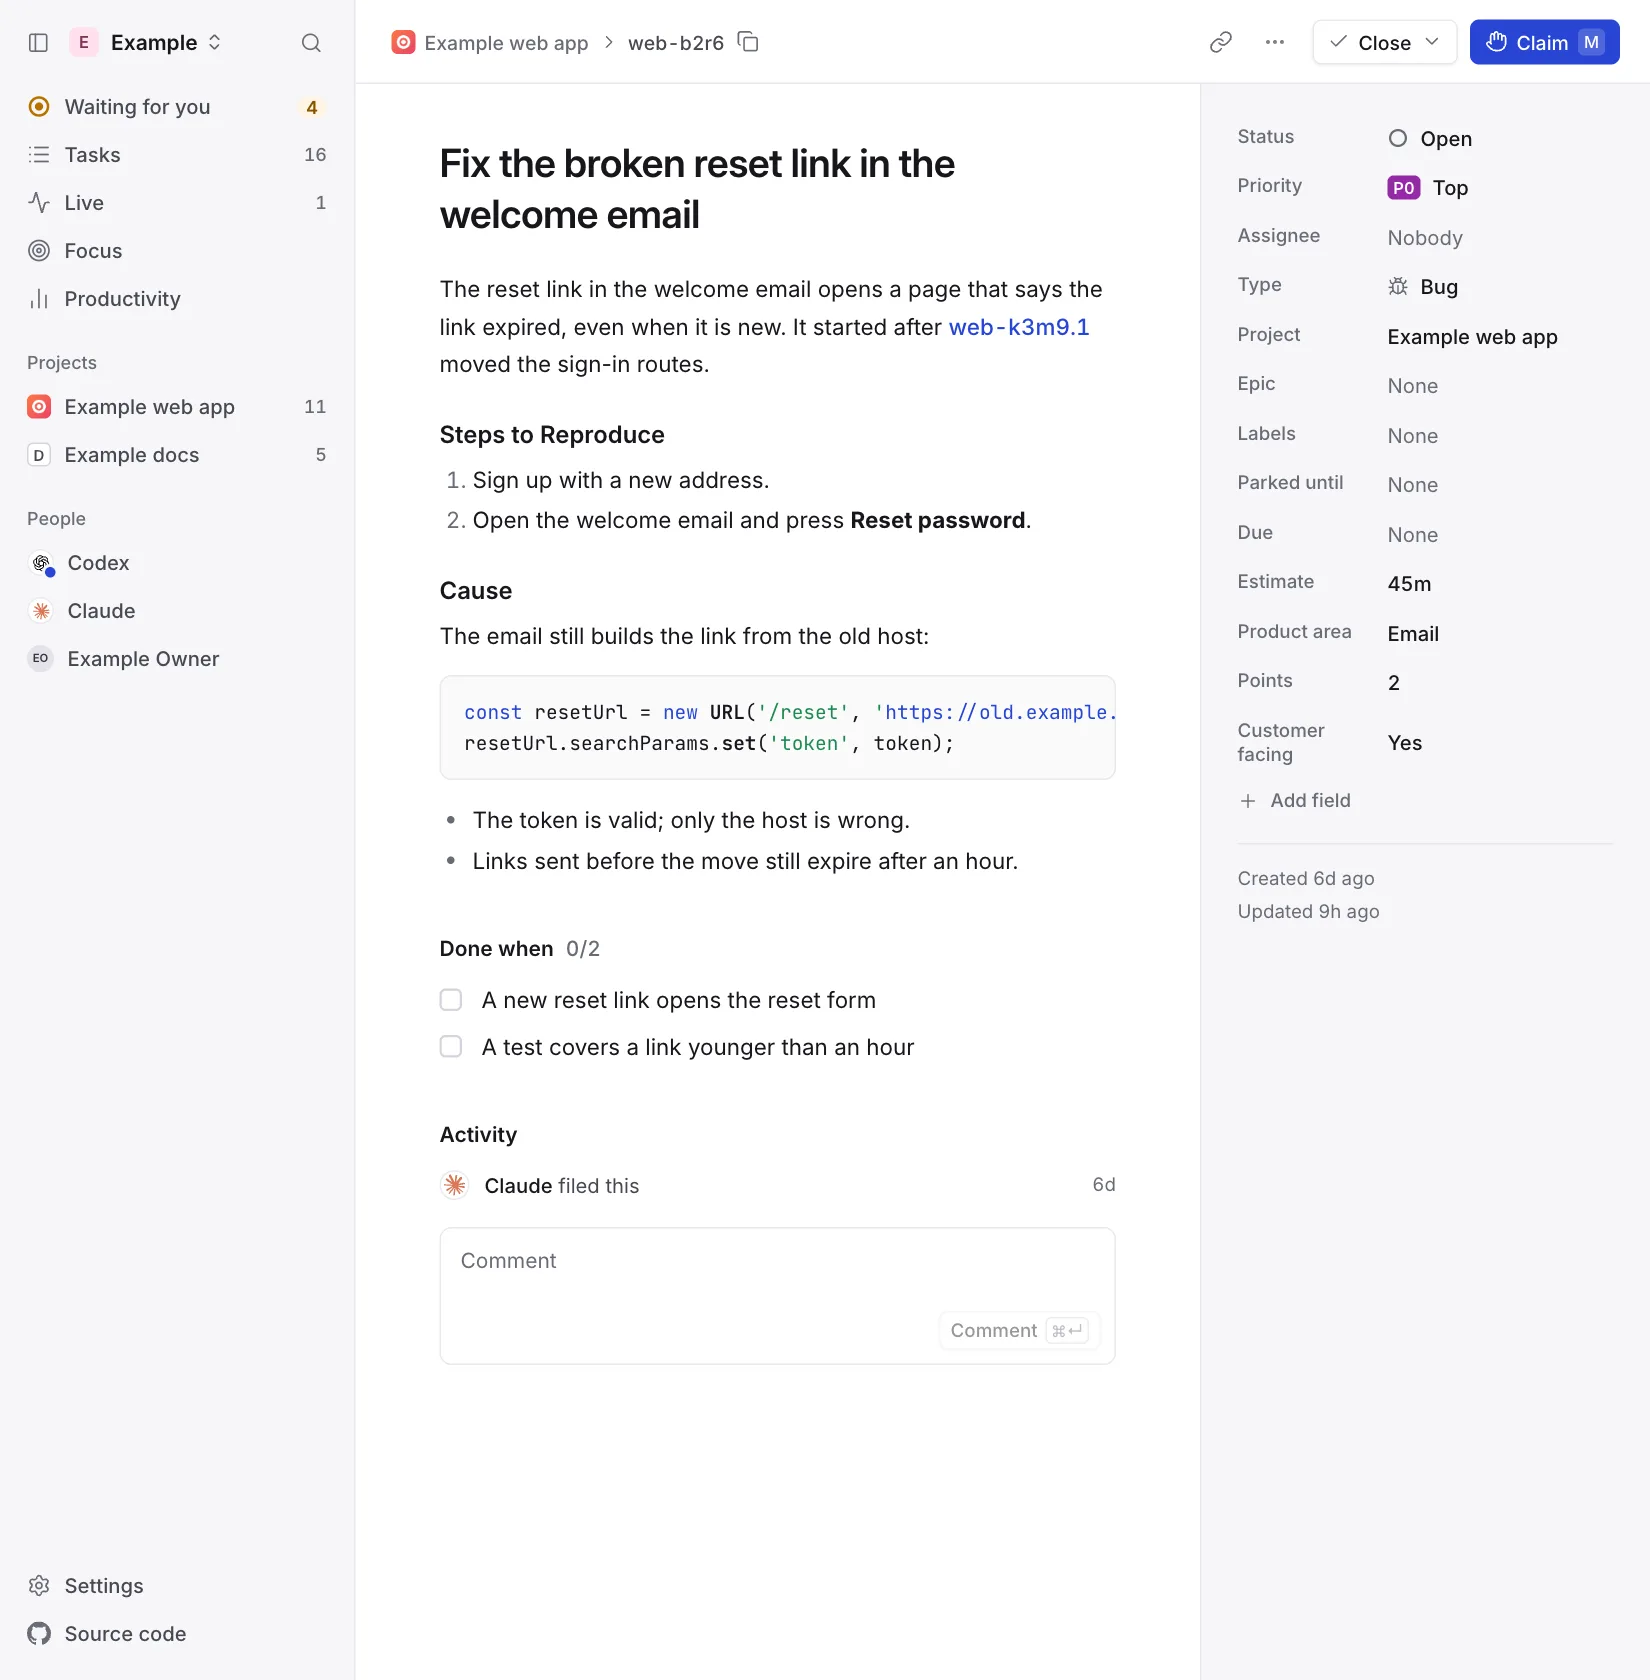
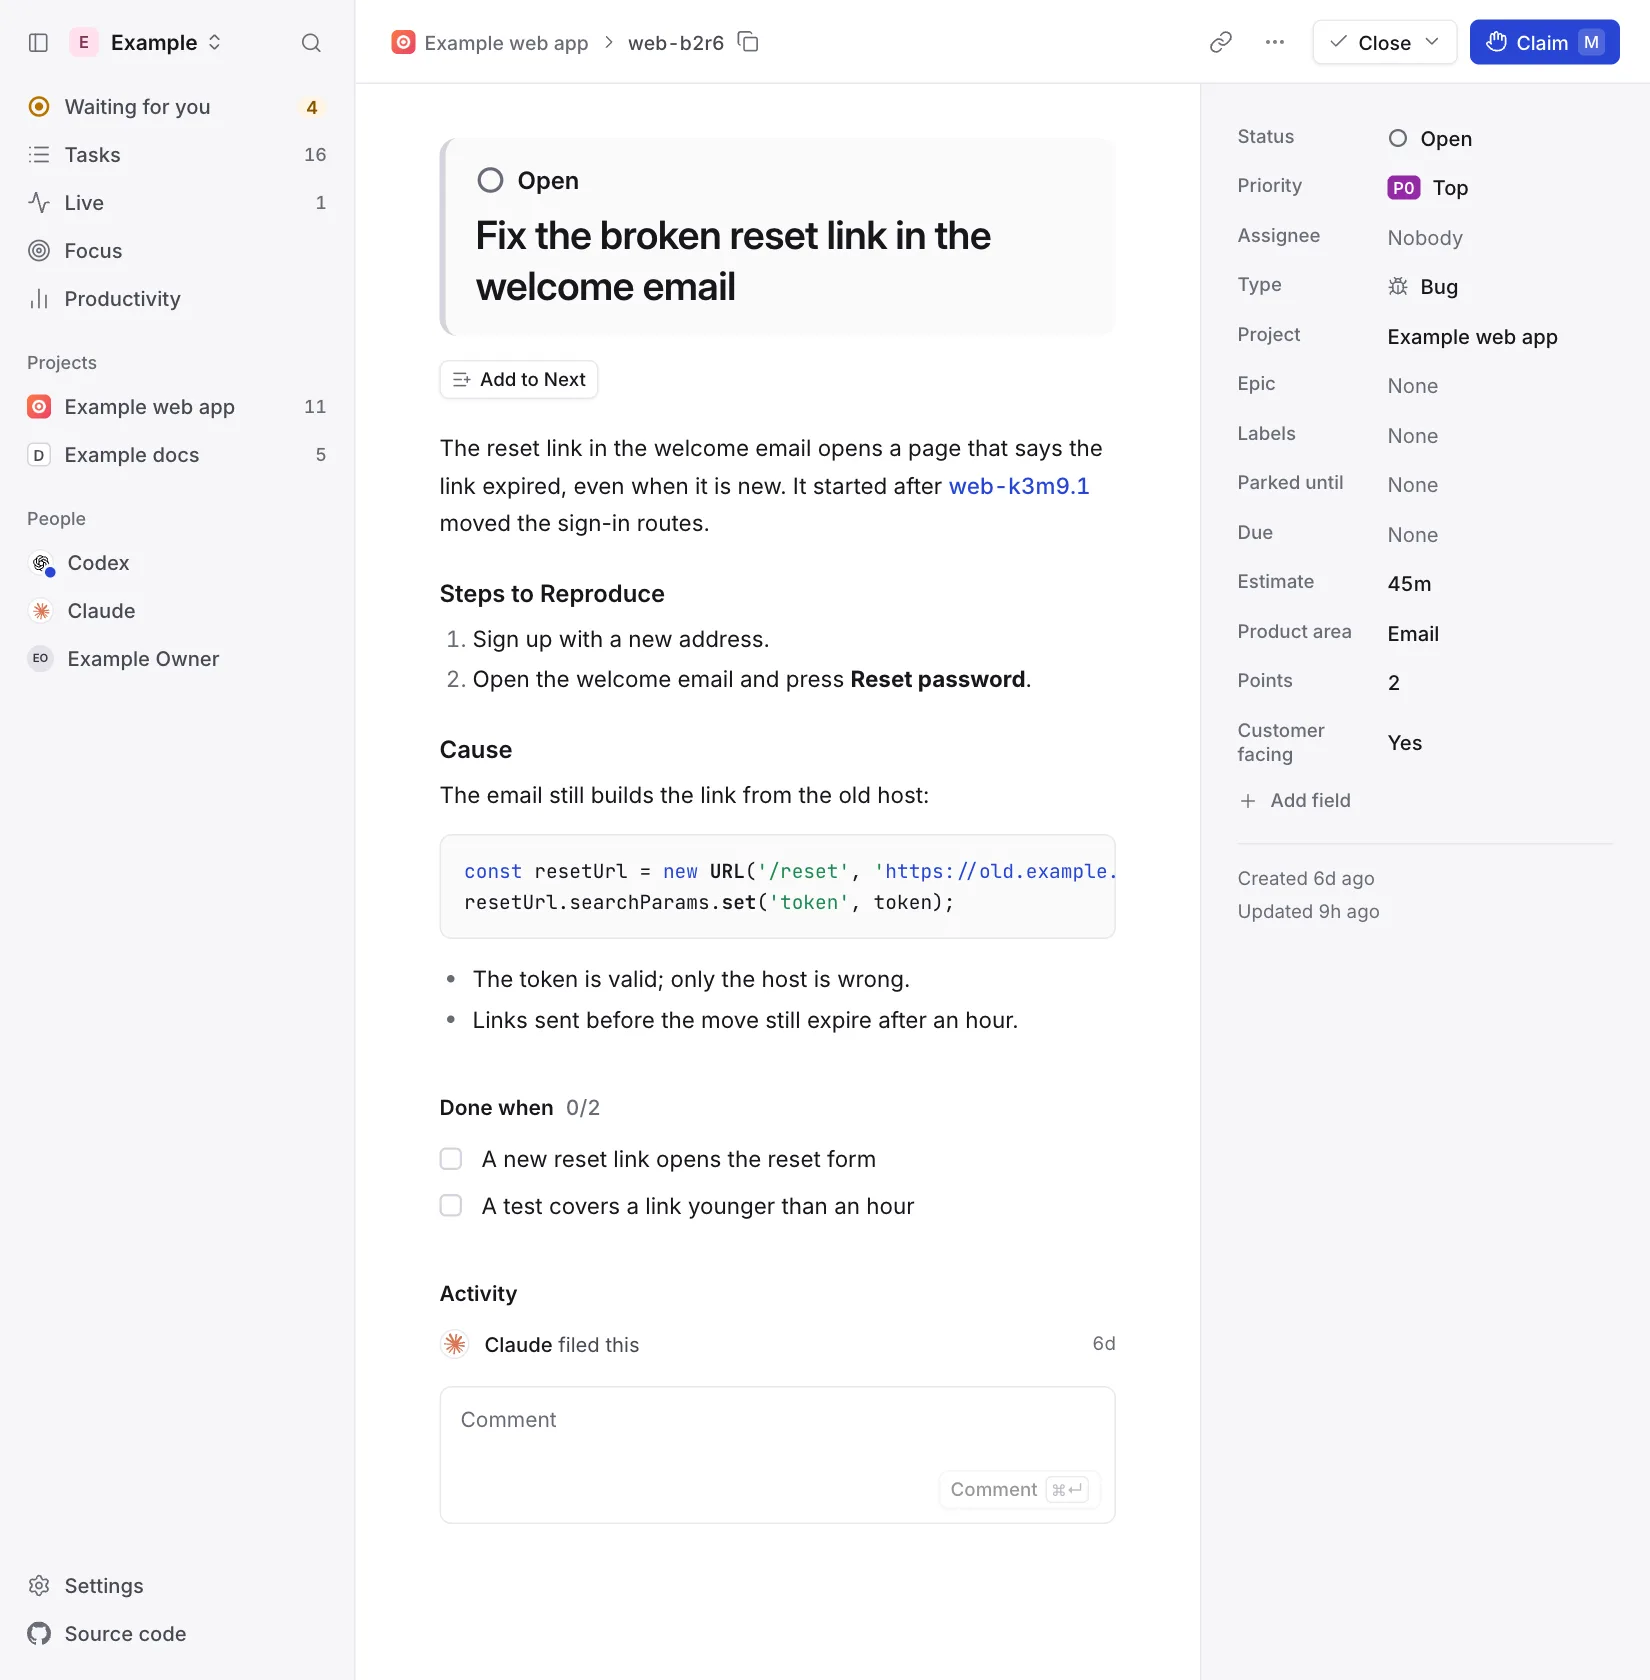
feat(ui): tint task and epic headers by status
Refs: ro-qwu2

diff --git a/packages/ui/src/routes/tasks/task-head.tsx b/packages/ui/src/routes/tasks/task-head.tsx
@@ -1,14 +1,17 @@
-import { useRef, type ReactNode } from 'react';
+import { Children, useRef, type ReactNode } from 'react';
 import { ChevronRight, GitPullRequest, Minus } from 'lucide-react';
 import { Link } from 'react-router-dom';
 import type { TaskResolution } from '@ntasks/domain';
 import type { TaskAcceptance, TaskAnswer, TaskChoice, TaskChoiceKey, TaskChoices, TaskDelivery } from '../../api/types';
+import { EpicBadge } from '../../components/EpicBadge';
 import { Avatar } from '../../components/ui/avatar';
 import { CopyButton } from '../../components/ui/copy-button';
 import { OptionList } from '../../components/ui/choice';
+import { LinkedText } from '../../components/ui/linked-text';
 import { ProjectIcon } from '../../components/ProjectIcon';
 import { StatusMark } from '../../components/ui/symbols';
 import { ageMs, formatAge, pullRequestName } from '../../lib/format';
+import type { StatusMark as StatusMarkKey } from '../../lib/symbols';
 import { cn } from '../../lib/utils';
 import { choiceName, RESOLUTION_LABELS, stageLabel, waivedCount } from '../../lib/task-model';
 import { usePaths } from '../../lib/paths';
@@ -19,6 +22,43 @@ export interface Actor {
   name: string;
   agent: boolean;
   model: string | null;
+}
+
+export interface TaskPageStatus {
+  mark: StatusMarkKey;
+  label: string;
+  muted: boolean;
+}
+
+const STATUS_TINT: Readonly<Record<StatusMarkKey | 'closed', string>> = {
+  open: 'border-s-border-strong bg-surface',
+  'in-progress': 'border-s-accent bg-accent/10',
+  waiting: 'border-s-wait bg-wait/12',
+  blocked: 'border-s-block bg-block/10',
+  parked: 'border-s-ink-3/50 bg-hover',
+  done: 'border-s-done bg-done/14',
+  closed: 'border-s-ink-3/50 bg-surface',
+};
+
+export function TaskHeading({ title, status, epic }: { title: string; status: TaskPageStatus; epic: boolean }) {
+  const tone = status.muted ? 'closed' : status.mark;
+  return (
+    <div
+      className={cn('flex min-w-0 flex-col gap-2 rounded-xl border-s-4 px-5 py-4 max-sm:px-3.5', STATUS_TINT[tone])}
+      data-task-heading-status={tone}
+    >
+      <div className="flex flex-wrap items-center gap-x-3 gap-y-1.5">
+        <span className="flex items-center gap-2 text-base font-semibold text-ink">
+          <StatusMark status={status.mark} size={20} muted={status.muted} label={null} />
+          {status.label}
+        </span>
+        {epic ? <EpicBadge /> : null}
+      </div>
+      <h1 className="m-0 text-task-title text-ink [overflow-wrap:anywhere] max-sm:text-[22px] max-sm:leading-7">
+        <LinkedText text={title} />
+      </h1>
+    </div>
+  );
 }
 
 /**
@@ -192,10 +232,7 @@ function AcceptanceLines({ shown }: { shown: AcceptanceShown }) {
 }
 
 /**
- * How a closed task ended, under its title: Done, or the way a close where
- * nothing shipped ended, who closed it and when, where its change is or what
- * else shows it, then the evidence or note. Closing records what shipped, not
- * a measured outcome, so it is drawn in greys like any other fact.
+ * Who closed a task and when, where its change is, and any evidence or note.
  */
 export function ClosedSummary({
   by,
@@ -223,6 +260,17 @@ export function ClosedSummary({
   children?: ReactNode;
 }) {
   const label = RESOLUTION_LABELS[resolution];
+  if (
+    !by &&
+    !at &&
+    !duplicate &&
+    !delivery &&
+    link === null &&
+    proof !== 'none' &&
+    !acceptance &&
+    Children.toArray(children).length === 0
+  )
+    return null;
   return (
     <section
       aria-label={`Closed as ${label}`}
@@ -230,14 +278,13 @@ export function ClosedSummary({
       data-task-resolution={resolution}
       className="flex flex-col gap-2 rounded-xl bg-surface px-4 py-3 inset-ring inset-ring-border"
     >
-      <div className="flex flex-wrap items-center gap-x-2.5 gap-y-1 text-label text-ink-2">
-        <StatusMark status="done" muted={resolution !== 'done'} label={null} />
-        <h2 className="m-0 text-sm font-semibold text-ink">
-          {label}
-          {duplicate ? <> of {duplicate}</> : null}
-        </h2>
-        <Byline by={by} at={at} nowMs={nowMs} />
-      </div>
+      {by || at ? (
+        <div className="flex flex-wrap items-center gap-x-2.5 gap-y-1 text-label text-ink-2">
+          <span>{by ? 'Closed by' : 'Closed'}</span>
+          <Byline by={by} at={at} nowMs={nowMs} />
+        </div>
+      ) : null}
+      {duplicate ? <p className="m-0 text-label text-ink-2">Duplicate of {duplicate}</p> : null}
       {delivery ? <DeliveryLine delivery={delivery} /> : null}
       {link !== null || proof === 'none' ? <ProofLine link={link} /> : null}
       {acceptance ? <AcceptanceLines shown={acceptance} /> : null}

diff --git a/packages/ui/src/routes/TaskRoute.tsx b/packages/ui/src/routes/TaskRoute.tsx
@@ -30,12 +30,10 @@ import type {
   TaskProject,
 } from '../api/types';
 import { AcceptForm, CloseDoneForm, CloseMenu } from '../components/CloseResolution';
-import { EpicBadge } from '../components/EpicBadge';
 import { TaskTimeline, type TimelineEntry } from '../components/TaskTimeline';
 import { TestRun } from '../components/TestRun';
 import { PageSkeleton, ReadFailed } from '../components/surface';
 import { Badge } from '../components/ui/badge';
-import { LinkedText } from '../components/ui/linked-text';
 import { Button, IconButton } from '../components/ui/button';
 import { OptionList } from '../components/ui/choice';
 import { EmptyState } from '../components/ui/empty-state';
@@ -64,7 +62,7 @@ import {
 } from '../hooks/useTasks';
 import { copyText } from '../lib/clipboard';
 import { httpUrl } from '../lib/custom-fields';
-import { isAgentActor, statusMarkOfStored } from '../lib/symbols';
+import { isAgentActor, statusMarkFor, statusMarkOfStored, STATUS_MARK_LABELS } from '../lib/symbols';
 import {
   actorLabel,
   choiceName,
@@ -90,7 +88,7 @@ import { MoveForm } from './tasks/move-form';
 import { canAddToNext, canUseNext, isInNext, NextTaskAction } from './tasks/next';
 import { StepList } from './tasks/step-list';
 import { TaskFacts, useFieldSave } from './tasks/task-facts';
-import { AnswerSummary, ChoiceSummary, ClosedSummary, TaskPath, type Actor } from './tasks/task-head';
+import { AnswerSummary, ChoiceSummary, ClosedSummary, TaskHeading, TaskPath, type Actor } from './tasks/task-head';
 import { ReliesOnDropped } from './tasks/relies-on-dropped';
 import { WhereItStopped } from './tasks/where-it-stopped';
 import { CommentText } from './tasks/comment-text';
@@ -470,6 +468,12 @@ function TaskPage({
     ? task.closeReason?.trim() === `Chose ${choiceName(task.choice.option, task.choice.label)}`
     : false;
   const resolution: TaskResolution = task.resolution ?? 'done';
+  const mark = statusMarkFor(task, new Map(siblings.map((row) => [row.id, row.status])));
+  const status = {
+    mark,
+    label: closed ? RESOLUTION_LABELS[resolution] : STATUS_MARK_LABELS[mark],
+    muted: closed && resolution !== 'done',
+  };
   const closer = closeAttribution(task);
   // A person's acceptance with no reason of their own closes with the API's words for it, which its line already says.
   const closeWords =
@@ -519,10 +523,7 @@ function TaskPage({
         data-task-page=""
       >
         <header className={cn(COLUMN, 'flex flex-col gap-4 pt-9 lg:col-start-1 max-md:pt-5')}>
-          {task.issueType === 'epic' ? <EpicBadge className="self-start" /> : null}
-          <h1 className="m-0 text-task-title text-ink [overflow-wrap:anywhere] max-sm:text-[22px] max-sm:leading-7">
-            <LinkedText text={task.title} />
-          </h1>
+          <TaskHeading title={task.title} status={status} epic={task.issueType === 'epic'} />
           {canAddToNext(task) && canUseNext(capabilities) ? (
             <NextTaskAction task={task} project={key} />
           ) : isInNext(task) ? (
@@ -591,6 +592,7 @@ function TaskPage({
         >
           <TaskFacts
             task={task}
+            status={status}
             project={project}
             parent={parent}
             parentTitle={parentTitle}

diff --git a/packages/ui/src/routes/tasks/task-facts.tsx b/packages/ui/src/routes/tasks/task-facts.tsx
@@ -29,15 +29,14 @@ import {
   isAgentActor,
   priorityLabel,
   PRIORITY_LABELS,
-  statusMarkFor,
   statusMarkOfStored,
-  STATUS_MARK_LABELS,
   typeLabel,
   typeMarkFor,
 } from '../../lib/symbols';
-import { actorLabel, claimedModel, RESOLUTION_LABELS, TASK_STATUSES } from '../../lib/task-model';
+import { actorLabel, claimedModel, TASK_STATUSES } from '../../lib/task-model';
 import { usePaths } from '../../lib/paths';
 import { cn } from '../../lib/utils';
+import type { TaskPageStatus } from './task-head';
 
 export type FieldSave = (input: {
   label: string;
@@ -180,6 +179,7 @@ function actorChoice(actor: string, actors: readonly TaskActor[] | undefined): F
 
 export function TaskFacts({
   task,
+  status,
   project,
   parent,
   parentTitle,
@@ -189,11 +189,12 @@ export function TaskFacts({
   nowMs,
 }: {
   task: LiveTask;
+  status: TaskPageStatus;
   project: TaskProject;
   parent: LiveEpic | null;
   parentTitle: string | null;
   epics: readonly LiveEpic[];
-  /** The project's other tasks: who holds work there, which labels it uses, what a link's status is. */
+  /** The project's other tasks: who holds work there and which labels it uses. */
   siblings: readonly LiveTask[];
   actors: readonly TaskActor[] | undefined;
   nowMs: number;
@@ -204,11 +205,6 @@ export function TaskFacts({
   const save = useFieldSave(task.id, project.logicalKey);
   const closed = task.status === 'closed';
   const can = (field: string) => !closed && fieldAvailable(capabilities, field);
-
-  const statuses = new Map(siblings.map((row) => [row.id, row.status]));
-  const mark = statusMarkFor(task, statuses);
-  const resolution = closed ? (task.resolution ?? 'done') : null;
-  const statusWord = resolution ? RESOLUTION_LABELS[resolution] : STATUS_MARK_LABELS[mark];
 
   const holder = task.assignee ? actorLabel(task.assignee, actors) : null;
   const model = task.assignee ? claimedModel(task) : null;
@@ -250,12 +246,12 @@ export function TaskFacts({
         <dl className="m-0 flex flex-col gap-px">
           <Fact
             label="Status"
-            valueText={statusWord}
+            valueText={status.label}
             editor={can('status') ? { kind: 'choice', value: task.status, choices: STATUS_CHOICES } : null}
             onSave={(next) => save({ label: 'the status', edit: { status: next }, undo: { status: task.status } })}
           >
-            <StatusMark status={mark} muted={resolution !== null && resolution !== 'done'} label={null} />
-            <span data-task-status={mark}>{statusWord}</span>
+            <StatusMark status={status.mark} muted={status.muted} label={null} />
+            <span data-task-status={status.mark}>{status.label}</span>
           </Fact>
           <Fact
             label="Priority"

diff --git a/packages/ui/test/task-page.test.tsx b/packages/ui/test/task-page.test.tsx
@@ -255,6 +255,7 @@ describe('a task page', () => {
     fireEvent.click(await enabledButton('Claim'));
     await waitFor(() => expect(task(api, 'web-b2r6')?.assignee).toBe(FIXTURE_ACTOR));
     expect(await within(fact('Assignee')).findByText(FIXTURE_ACTOR)).toBeTruthy();
+    expect(document.querySelector('[data-task-heading-status="in-progress"]')?.textContent).toContain('In progress');
     expect(await screen.findByText('claimed this', { exact: false })).toBeTruthy();
 
     fireEvent.change(screen.getByRole('textbox', { name: 'Comment' }), {
@@ -281,6 +282,7 @@ describe('a task page', () => {
     await waitFor(() => expect(task(api, 'web-b2r6')?.status).toBe('closed'));
     expect(task(api, 'web-b2r6')?.closeReason).toBe('Landed in 4d5e6f7: the link uses the new host.');
     expect(await screen.findByRole('region', { name: 'Closed as Done' })).toBeTruthy();
+    expect(document.querySelector('[data-task-heading-status="done"]')?.textContent).toContain('Done');
   });
 
   it('sends a comment with Command or Control and Enter', async () => {
@@ -921,6 +923,7 @@ describe('a task page', () => {
   it('shows a closed task as closed, with how it ended', async () => {
     renderApp('/tasks/web-h1z8');
     expect(await screen.findByRole('region', { name: 'Closed as No longer needed' })).toBeTruthy();
+    expect(document.querySelector('[data-task-heading-status="closed"]')?.textContent).toContain('No longer needed');
     expect(screen.queryByRole('button', { name: 'Close' })).toBeNull();
     // Nothing shipped, so its status is the grey tick and the way it ended, never Done.
     const status = fact('Status');

diff --git a/packages/ui/test/epics.test.tsx b/packages/ui/test/epics.test.tsx
@@ -300,6 +300,19 @@ describe('the project overview', () => {
     expect(within(children).getByRole('link', { name: /Remove the old sign-in page/ })).toBeTruthy();
   });
 
+  it('shows Done and the Epic badge together on a closed epic', async () => {
+    const api = createFixtureTasksApi();
+    const epic = api.state.tasks.find((task) => task.id === 'web-k3m9');
+    if (!epic) throw new Error('The fixture has no web-k3m9');
+    Object.assign(epic, { status: 'closed', resolution: 'done' });
+
+    renderApp('/tasks/web-k3m9', api);
+    const title = await screen.findByRole('heading', { level: 1, name: 'Ship the new sign-in page' });
+    const heading = title.closest('[data-task-heading-status="done"]') as HTMLElement;
+    expect(within(heading).getByText('Done')).toBeTruthy();
+    expect(within(heading).getByText('Epic')).toBeTruthy();
+  });
+
   it('keeps the task queue in its project when clearing filters and labels its epic rows', async () => {
     renderApp('/projects/web/tasks?project=docs&q=unfindable');
     const views = await screen.findByRole('navigation', { name: 'Project views' });

diff --git a/docs/web-app.md b/docs/web-app.md
@@ -37,6 +37,9 @@ task closes ([Epics](concepts.md#epics)). Links to the Epics tab on a
 project-filtered Tasks board still open that grouped list.
 
 **Task page.** Markdown text, Done when, activity and the task's facts.
+Task and epic detail pages show the status above the title with a matching
+tint. Done is green, and other ways of closing a task use grey and name how
+it ended.
 **From the epic** shows any comments pinned on the epic for its tasks.
 A pinned comment is marked Pinned among its own task's comments.
 Detailed comments show their TL;DR or a short preview. Select **Show full
